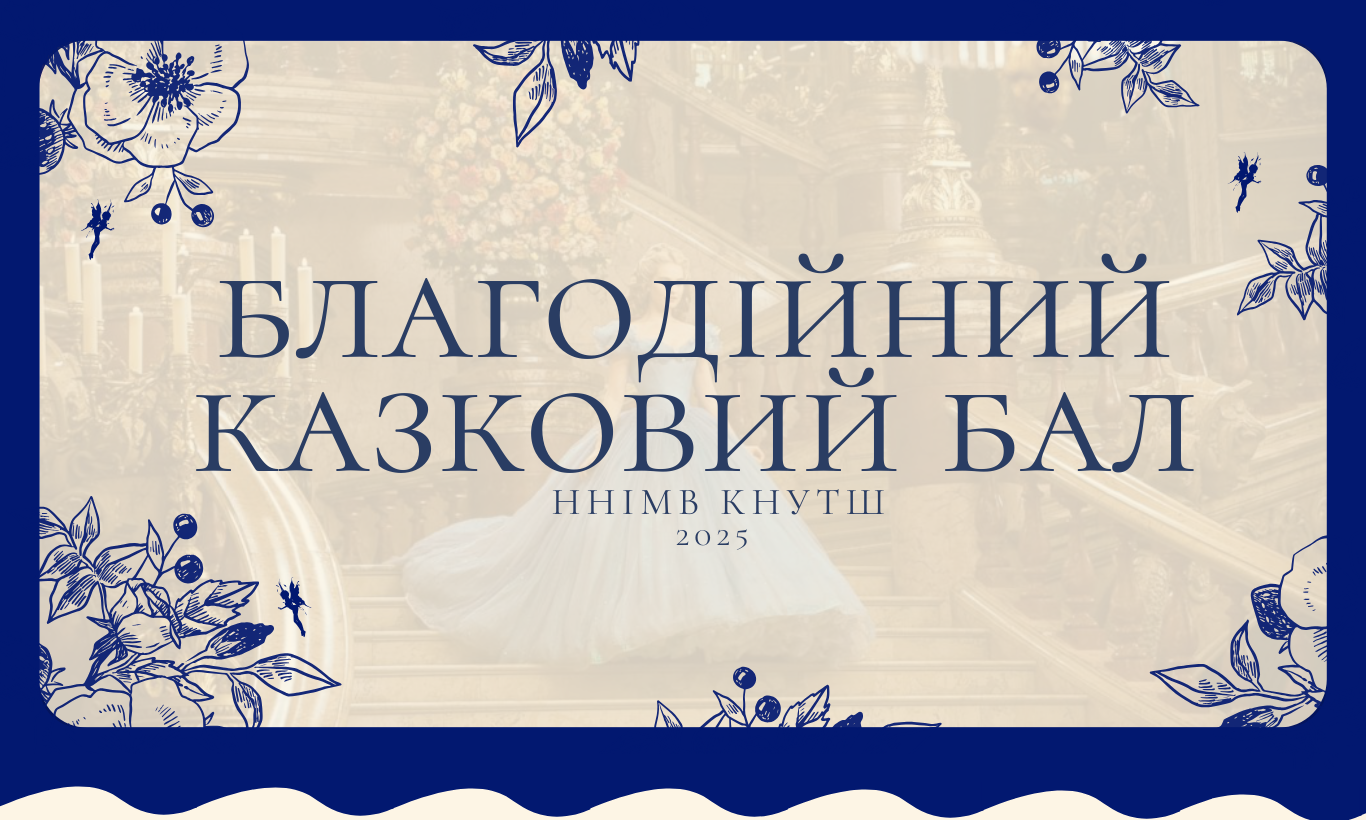
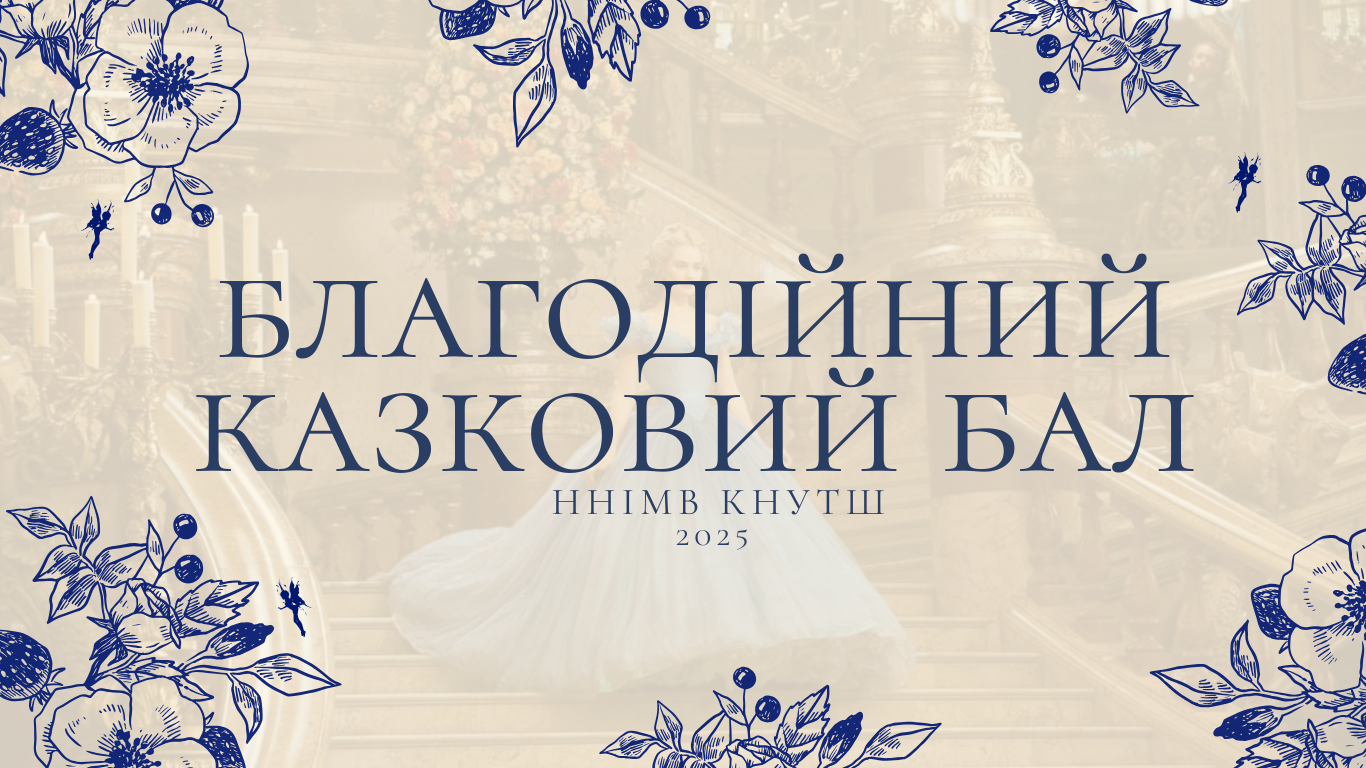
Responsive first try

diff --git a/index.html b/index.html
@@ -23,7 +23,7 @@
       <div class="big-container">
         <img class="header" src="header.png" />
         <h1 class="programm">ПРОГРАМА</h1>
-        <div class="container" class="programm-container">
+        <div class="container programm-container d-none d-lg-block">
           <div class="row">
             <div class="col-1">
               <img class="program-icon" src="program-icon.png" />
@@ -115,18 +115,111 @@
           </div>
         </div>
 
+        <div class="container programm-container d-lg-none">
+          <div class="row">
+            <div class="col-1">
+              <img class="program-icon" src="program-icon.png" />
+            </div>
+            <div class="col-10">
+              <p class="programm-listing">
+                Реєстрація гостей під акомпанемент оркестру
+              </p>
+              <p class="programm-timing">15:00-16:00</p>
+            </div>
+          </div>
+
+          <div class="row">
+            <div class="col-1">
+              <img class="program-icon" src="program-icon.png" />
+            </div>
+            <div class="col-10">
+              <p class="programm-listing">
+                Урочисте відкриття та вітальні промови
+              </p>
+              <p class="programm-timing">16:00-16:30</p>
+            </div>
+          </div>
+
+          <div class="row">
+            <div class="col-1">
+              <img class="program-icon" src="program-icon.png" />
+            </div>
+            <div class="col-10">
+              <p class="programm-listing">
+                Презентація 12 пар дебютантів і танцювальна програма
+              </p>
+              <p class="programm-timing">16:30–17:10</p>
+            </div>
+          </div>
+
+          <div class="row">
+            <div class="col-1">
+              <img class="program-icon" src="program-icon.png" />
+            </div>
+            <div class="col-10">
+              <p class="programm-listing">Кейтеринг і вільний час</p>
+              <p class="programm-timing">17:10–18:10</p>
+            </div>
+          </div>
+
+          <div class="row">
+            <div class="col-1">
+              <img class="program-icon" src="program-icon.png" />
+            </div>
+            <div class="col-10">
+              <p class="programm-listing">Танцювальний майстер-клас</p>
+              <p class="programm-timing">18:10–18:30</p>
+            </div>
+          </div>
+
+          <div class="row">
+            <div class="col-1">
+              <img class="program-icon" src="program-icon.png" />
+            </div>
+            <div class="col-10">
+              <p class="programm-listing">
+                Творчі виступи та танці дебютантів з гостями
+              </p>
+              <p class="programm-timing">18:30–19:30</p>
+            </div>
+          </div>
+
+          <div class="row">
+            <div class="col-1">
+              <img class="program-icon" src="program-icon.png" />
+            </div>
+            <div class="col-10">
+              <p class="programm-listing">
+                Благодійний аукціон, оголошення переможців та завершення
+              </p>
+              <p class="programm-timing">19:30–20:00</p>
+            </div>
+          </div>
+
+          <div class="row">
+            <div class="col-1">
+              <img class="program-icon" src="program-icon.png" />
+            </div>
+            <div class="col-10">
+              <p class="programm-listing">Танці, світло і магія вечора</p>
+              <p class="programm-timing">20:00–21:00</p>
+            </div>
+          </div>
+        </div>
+
         <h1 class="debutants">ДЕБЮТАНТИ</h1>
 
-        <div class="container" class="debutants-container">
+        <div class="container debutants-container">
           <div class="row mt-2">
-            <div class="col-5">
+            <div class="col-lg-5 first-in-row">
               <h2 class="couple-name">
                 Пара 1: Кобзар Анна та Онацький Олексій
               </h2>
               <img src="coming-soon.png" class="debutants-video-cs" />
             </div>
+
             <div class="col-2"></div>
-            <div class="col-5">
+            <div class="col-lg-5">
               <h2 class="couple-name">
                 Пара 2: Нікіфорова Ірина та Ляхно Богдан
               </h2>
@@ -135,14 +228,14 @@
           </div>
 
           <div class="row mt-5">
-            <div class="col-5">
+            <div class="col-lg-5 first-in-row">
               <h2 class="couple-name">
                 Пара 3: Мурга Вікторія та Остапенко Денис
               </h2>
               <img src="coming-soon.png" class="debutants-video-cs" />
             </div>
             <div class="col-2"></div>
-            <div class="col-5">
+            <div class="col-lg-5">
               <h2 class="couple-name">
                 Пара 4: Ковальчук Катерина та Мисечко Антон
               </h2>
@@ -151,14 +244,14 @@
           </div>
 
           <div class="row mt-5">
-            <div class="col-5">
+            <div class="col-lg-5 first-in-row">
               <h2 class="couple-name">
                 Пара 5: Халіль Дженіфер та Рощенко Олексій
               </h2>
               <img src="coming-soon.png" class="debutants-video-cs" />
             </div>
             <div class="col-2"></div>
-            <div class="col-5">
+            <div class="col-lg-5">
               <h2 class="couple-name">
                 Пара 6: Черкасенко Анжеліка та Шихненко Назар
               </h2>
@@ -167,12 +260,12 @@
           </div>
 
           <div class="row mt-5">
-            <div class="col-5">
+            <div class="col-lg-5 first-in-row">
               <h2 class="couple-name">Пара 7: Журило Дарʼя та Черних Кирило</h2>
               <img src="coming-soon.png" class="debutants-video-cs" />
             </div>
             <div class="col-2"></div>
-            <div class="col-5">
+            <div class="col-lg-5">
               <h2 class="couple-name">
                 Пара 8: Давиденко Анна та Музика Максим
               </h2>
@@ -181,14 +274,14 @@
           </div>
 
           <div class="row mt-5">
-            <div class="col-5">
+            <div class="col-lg-5 first-in-row">
               <h2 class="couple-name">
                 Пара 9: Кожушко Валерія та Романюк Ярослав
               </h2>
               <img src="coming-soon.png" class="debutants-video-cs" />
             </div>
             <div class="col-2"></div>
-            <div class="col-5">
+            <div class="col-lg-5">
               <h2 class="couple-name">
                 Пара 10: Назарук Анна та Єфремов Олександр
               </h2>
@@ -197,14 +290,14 @@
           </div>
 
           <div class="row mt-5">
-            <div class="col-5">
+            <div class="col-lg-5 first-in-row">
               <h2 class="couple-name">
                 Пара 11: Лужецька Олена та Свінціцький Вадим
               </h2>
               <img src="coming-soon.png" class="debutants-video-cs" />
             </div>
             <div class="col-2"></div>
-            <div class="col-5">
+            <div class="col-lg-5">
               <h2 class="couple-name">Пара 12: Бубон Ірина та Нещерет Артем</h2>
               <img src="coming-soon.png" class="debutants-video-cs" />
             </div>

diff --git a/style.css b/style.css
@@ -1,5 +1,6 @@
 .biggest-container {
-  background-color: #fdf5e5;
+  background-image: url(background.png);
+  background-size: contain;
   color: #2a3d63;
 }
 .big-container {
@@ -13,6 +14,7 @@ img.header {
   max-width: 100%;
   display: block;
   margin: auto;
+  border-radius: 30px;
 }
 .programm {
   font-family: "Cormorant SC", serif;
@@ -112,4 +114,127 @@ img.header {
   max-width: 100%;
   display: block;
   margin: 0 auto;
+}
+
+@media (max-width: 1061px) {
+  .couple-name {
+    font-size: 25px;
+  }
+  .programm-listing {
+    font-size: 20px;
+  }
+
+  .programm-timing {
+    font-size: 20px;
+  }
+}
+
+@media (max-width: 991px) {
+  .first-in-row {
+    margin-bottom: 35px;
+  }
+  .biggest-container {
+    background-color: #fdf5e5;
+    background-image: none;
+    width: 100%;
+  }
+  .big-container {
+    max-width: 90%;
+  }
+
+  .programm-listing {
+    font-size: 18px;
+  }
+
+  .programm-timing {
+    font-size: 18px;
+  }
+
+  .programm {
+    font-size: 32px;
+  }
+
+  .debutants {
+    font-size: 32px;
+  }
+
+  .couple-name {
+    font-size: 28px;
+  }
+
+  .partners {
+    font-size: 32px;
+  }
+
+  .debutants-container {
+    max-width: 80%;
+  }
+}
+
+@media (max-width: 767px) {
+  .couple-name {
+    font-size: 22px;
+  }
+
+  .biggest-container {
+    background-color: #fdf5e5;
+    background-image: none;
+    width: 100%;
+  }
+  .big-container {
+    max-width: 90%;
+  }
+
+  .programm-listing {
+    font-size: 15px;
+  }
+
+  .programm-timing {
+    font-size: 15px;
+  }
+
+  .debutants-container {
+    max-width: 90%;
+  }
+}
+
+@media (max-width: 500px) {
+  .biggest-container {
+    background-color: #fdf5e5;
+    background-image: none;
+    width: 100%;
+  }
+  .big-container {
+    max-width: 100%;
+  }
+  .program-icon {
+    height: 30px;
+  }
+
+  .programm-listing {
+    font-size: 12px;
+  }
+
+  .programm-timing {
+    font-size: 12px;
+  }
+  .programm {
+    font-size: 20px;
+  }
+
+  .debutants {
+    font-size: 20px;
+  }
+
+  .couple-name {
+    font-size: 18px;
+  }
+
+  .partners {
+    font-size: 20px;
+  }
+
+  .debutants-container {
+    max-width: 90%;
+  }
 }
